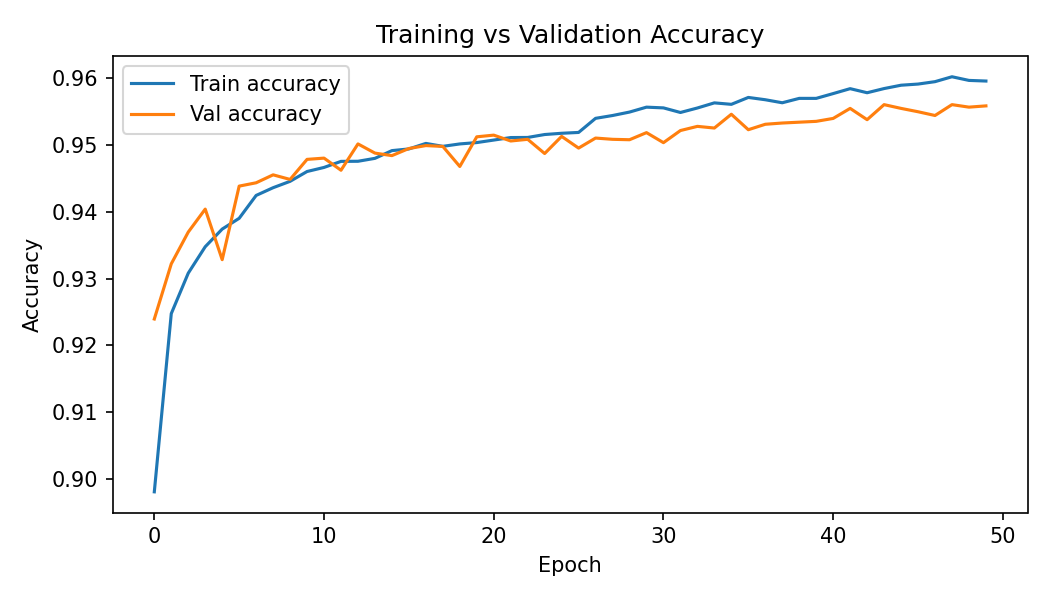
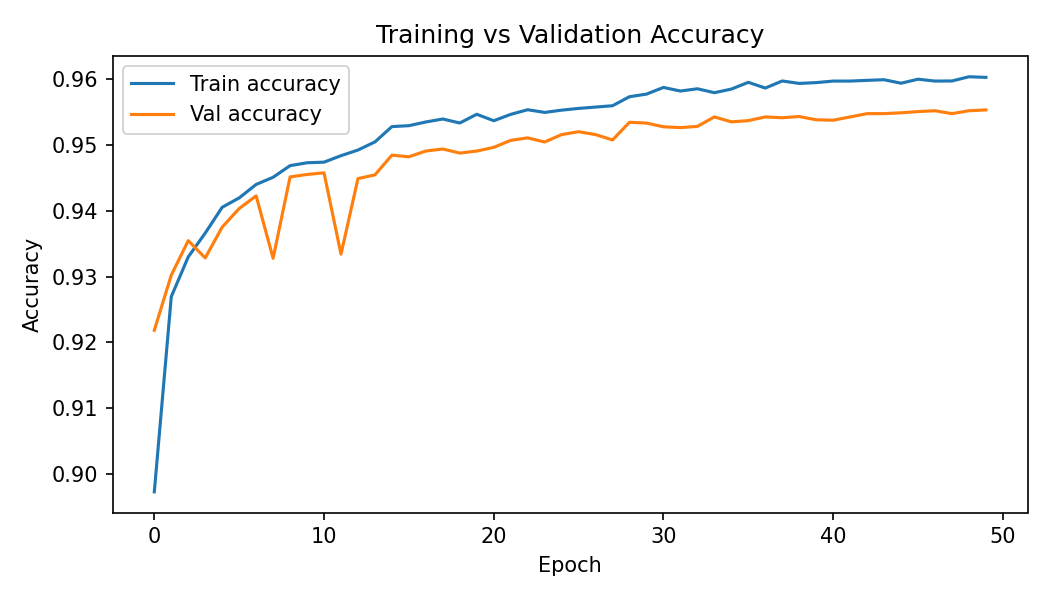
Added figures & results

diff --git a/README.md b/README.md
@@ -98,7 +98,7 @@ The notebook will clone the repo, install lightweight deps (pandas, scikit-learn
 
 | Model | Accuracy | F1 | Recall | Precision | AUC | Specificity |
 |---|---|---|---|---|---|---|
-| Proposed CNN-LSTM (rebuild) | 0.9560 | 0.8544 | 0.8610 | 0.8480 | 0.9857 | 0.9728 |
+| Proposed CNN-LSTM (rebuild) | 0.9574 | 0.8791 | 0.8771 | 0.8811 | 0.9885 | 0.9746 |
 
 All reported numbers come from the team's own implementation and Colab run on this dataset version. The paper's reported numbers are provided for reference only.
 